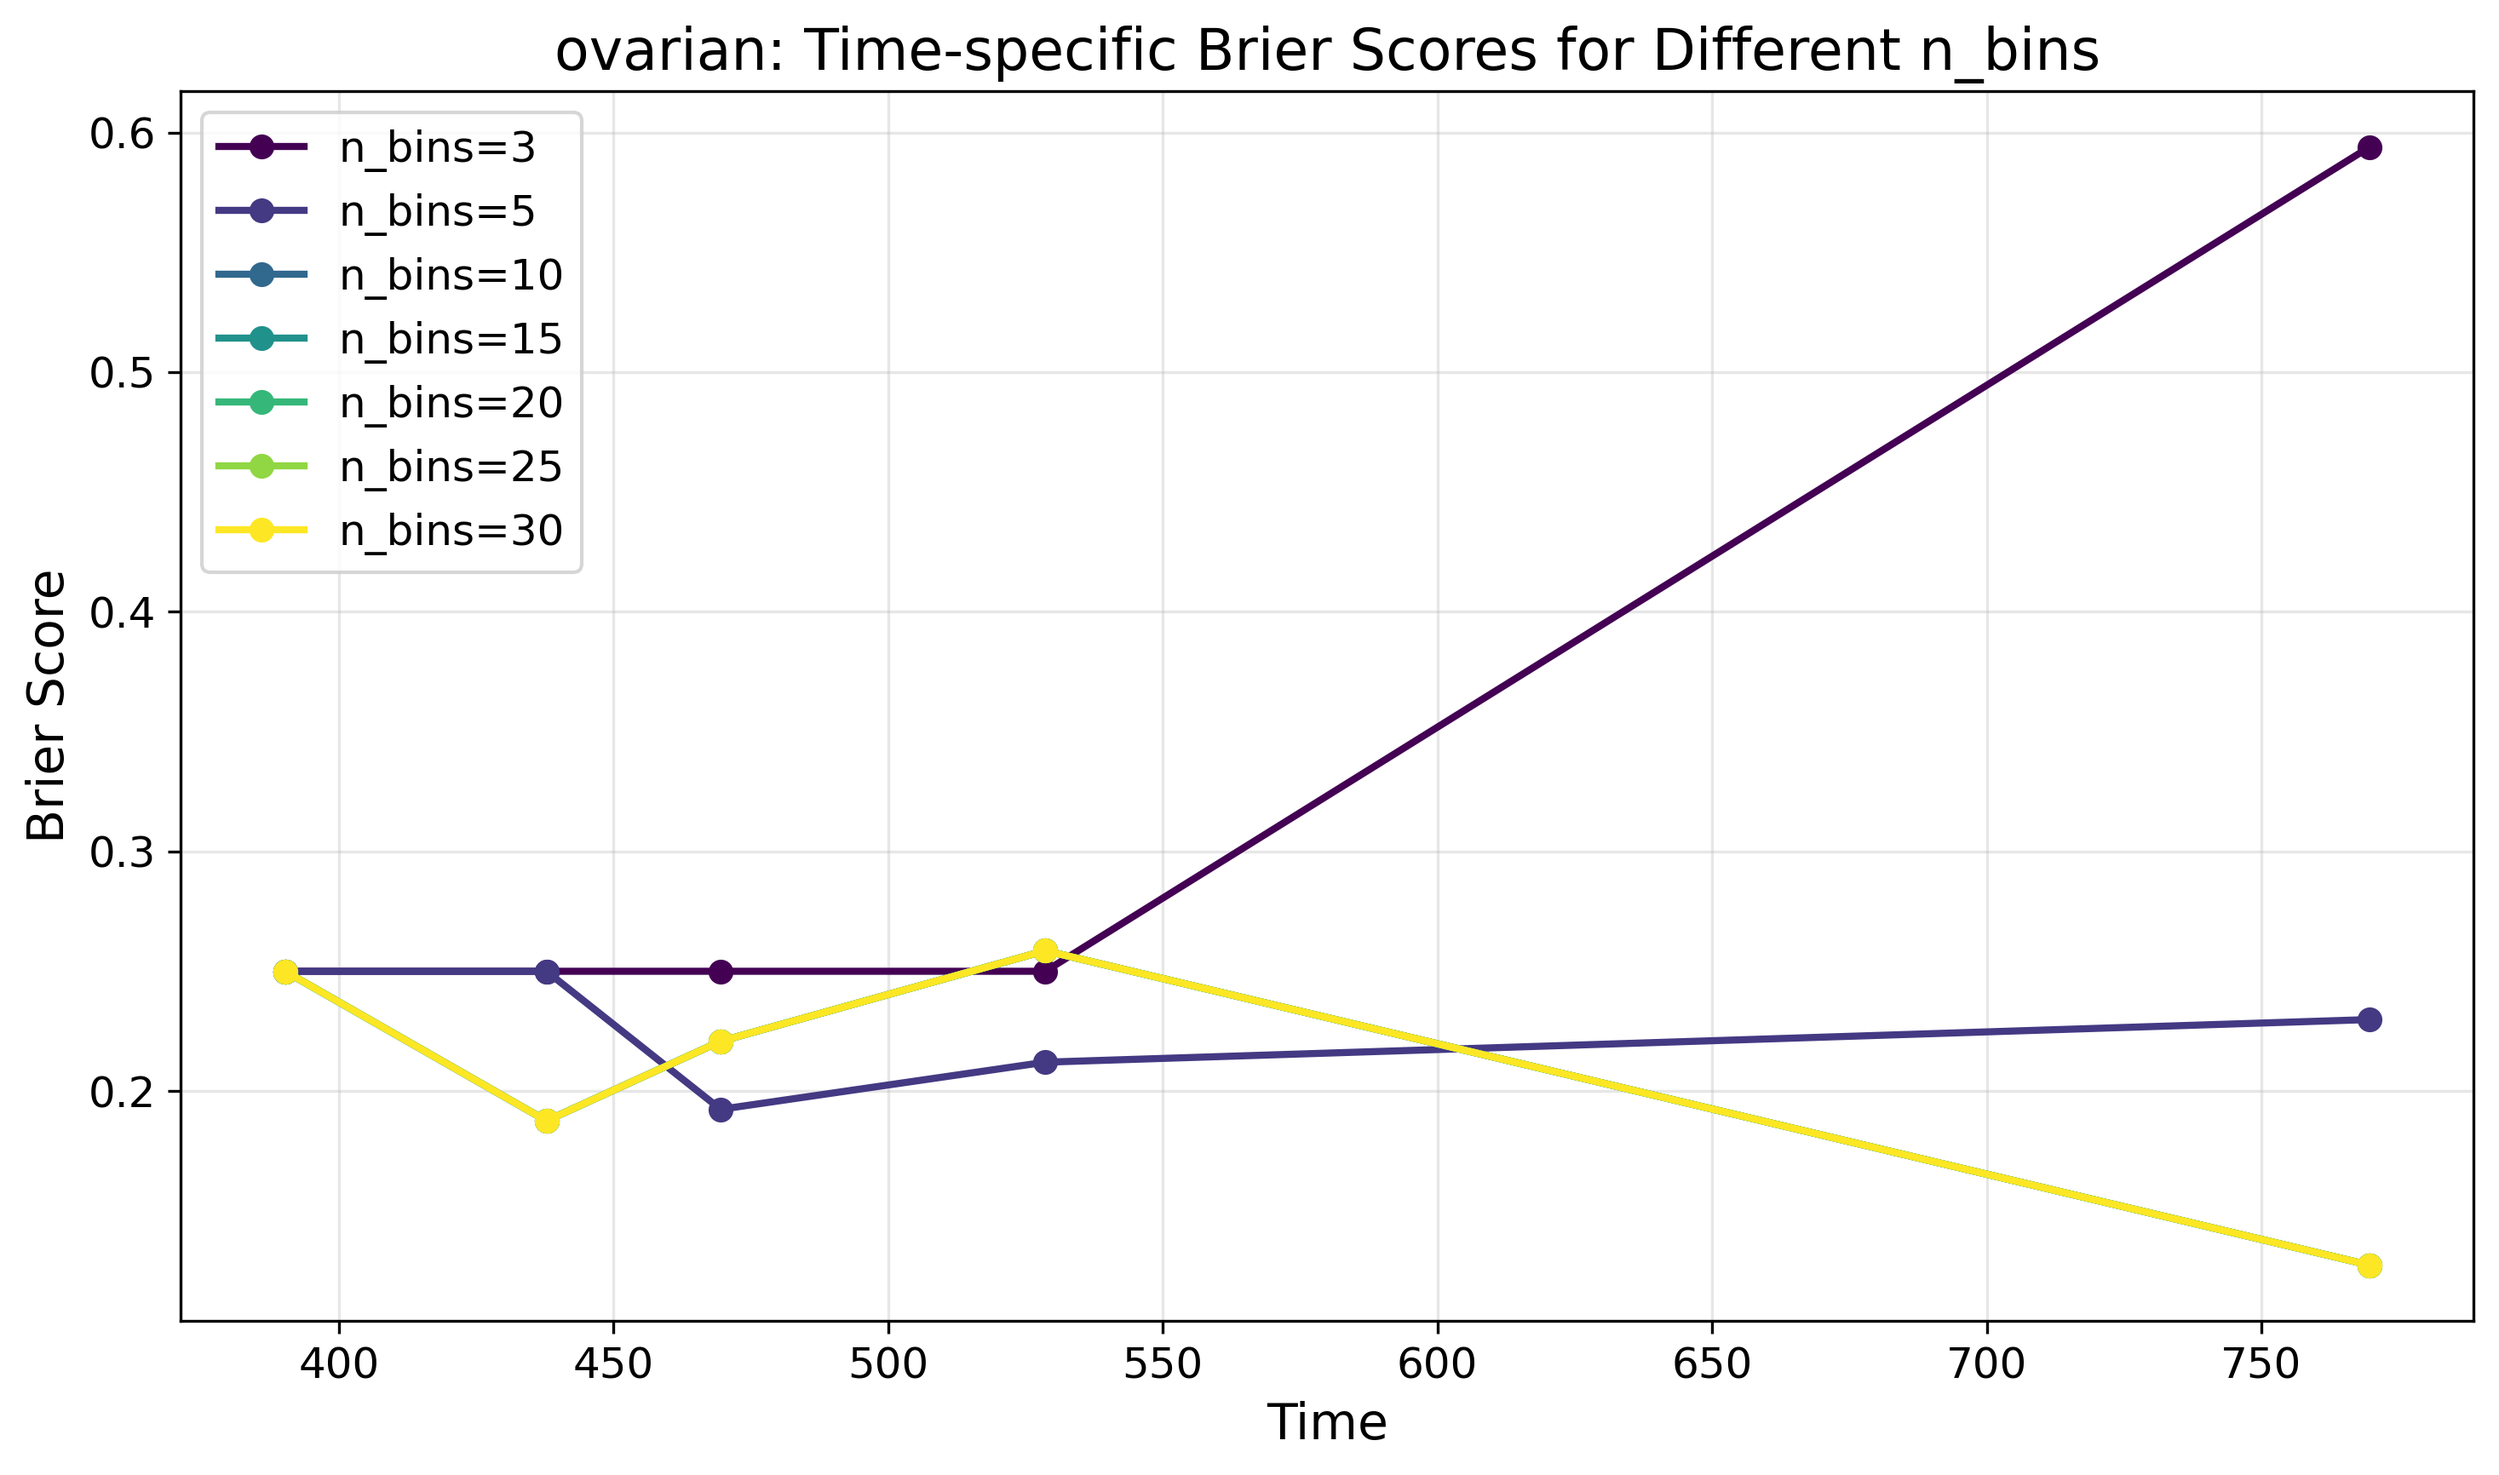
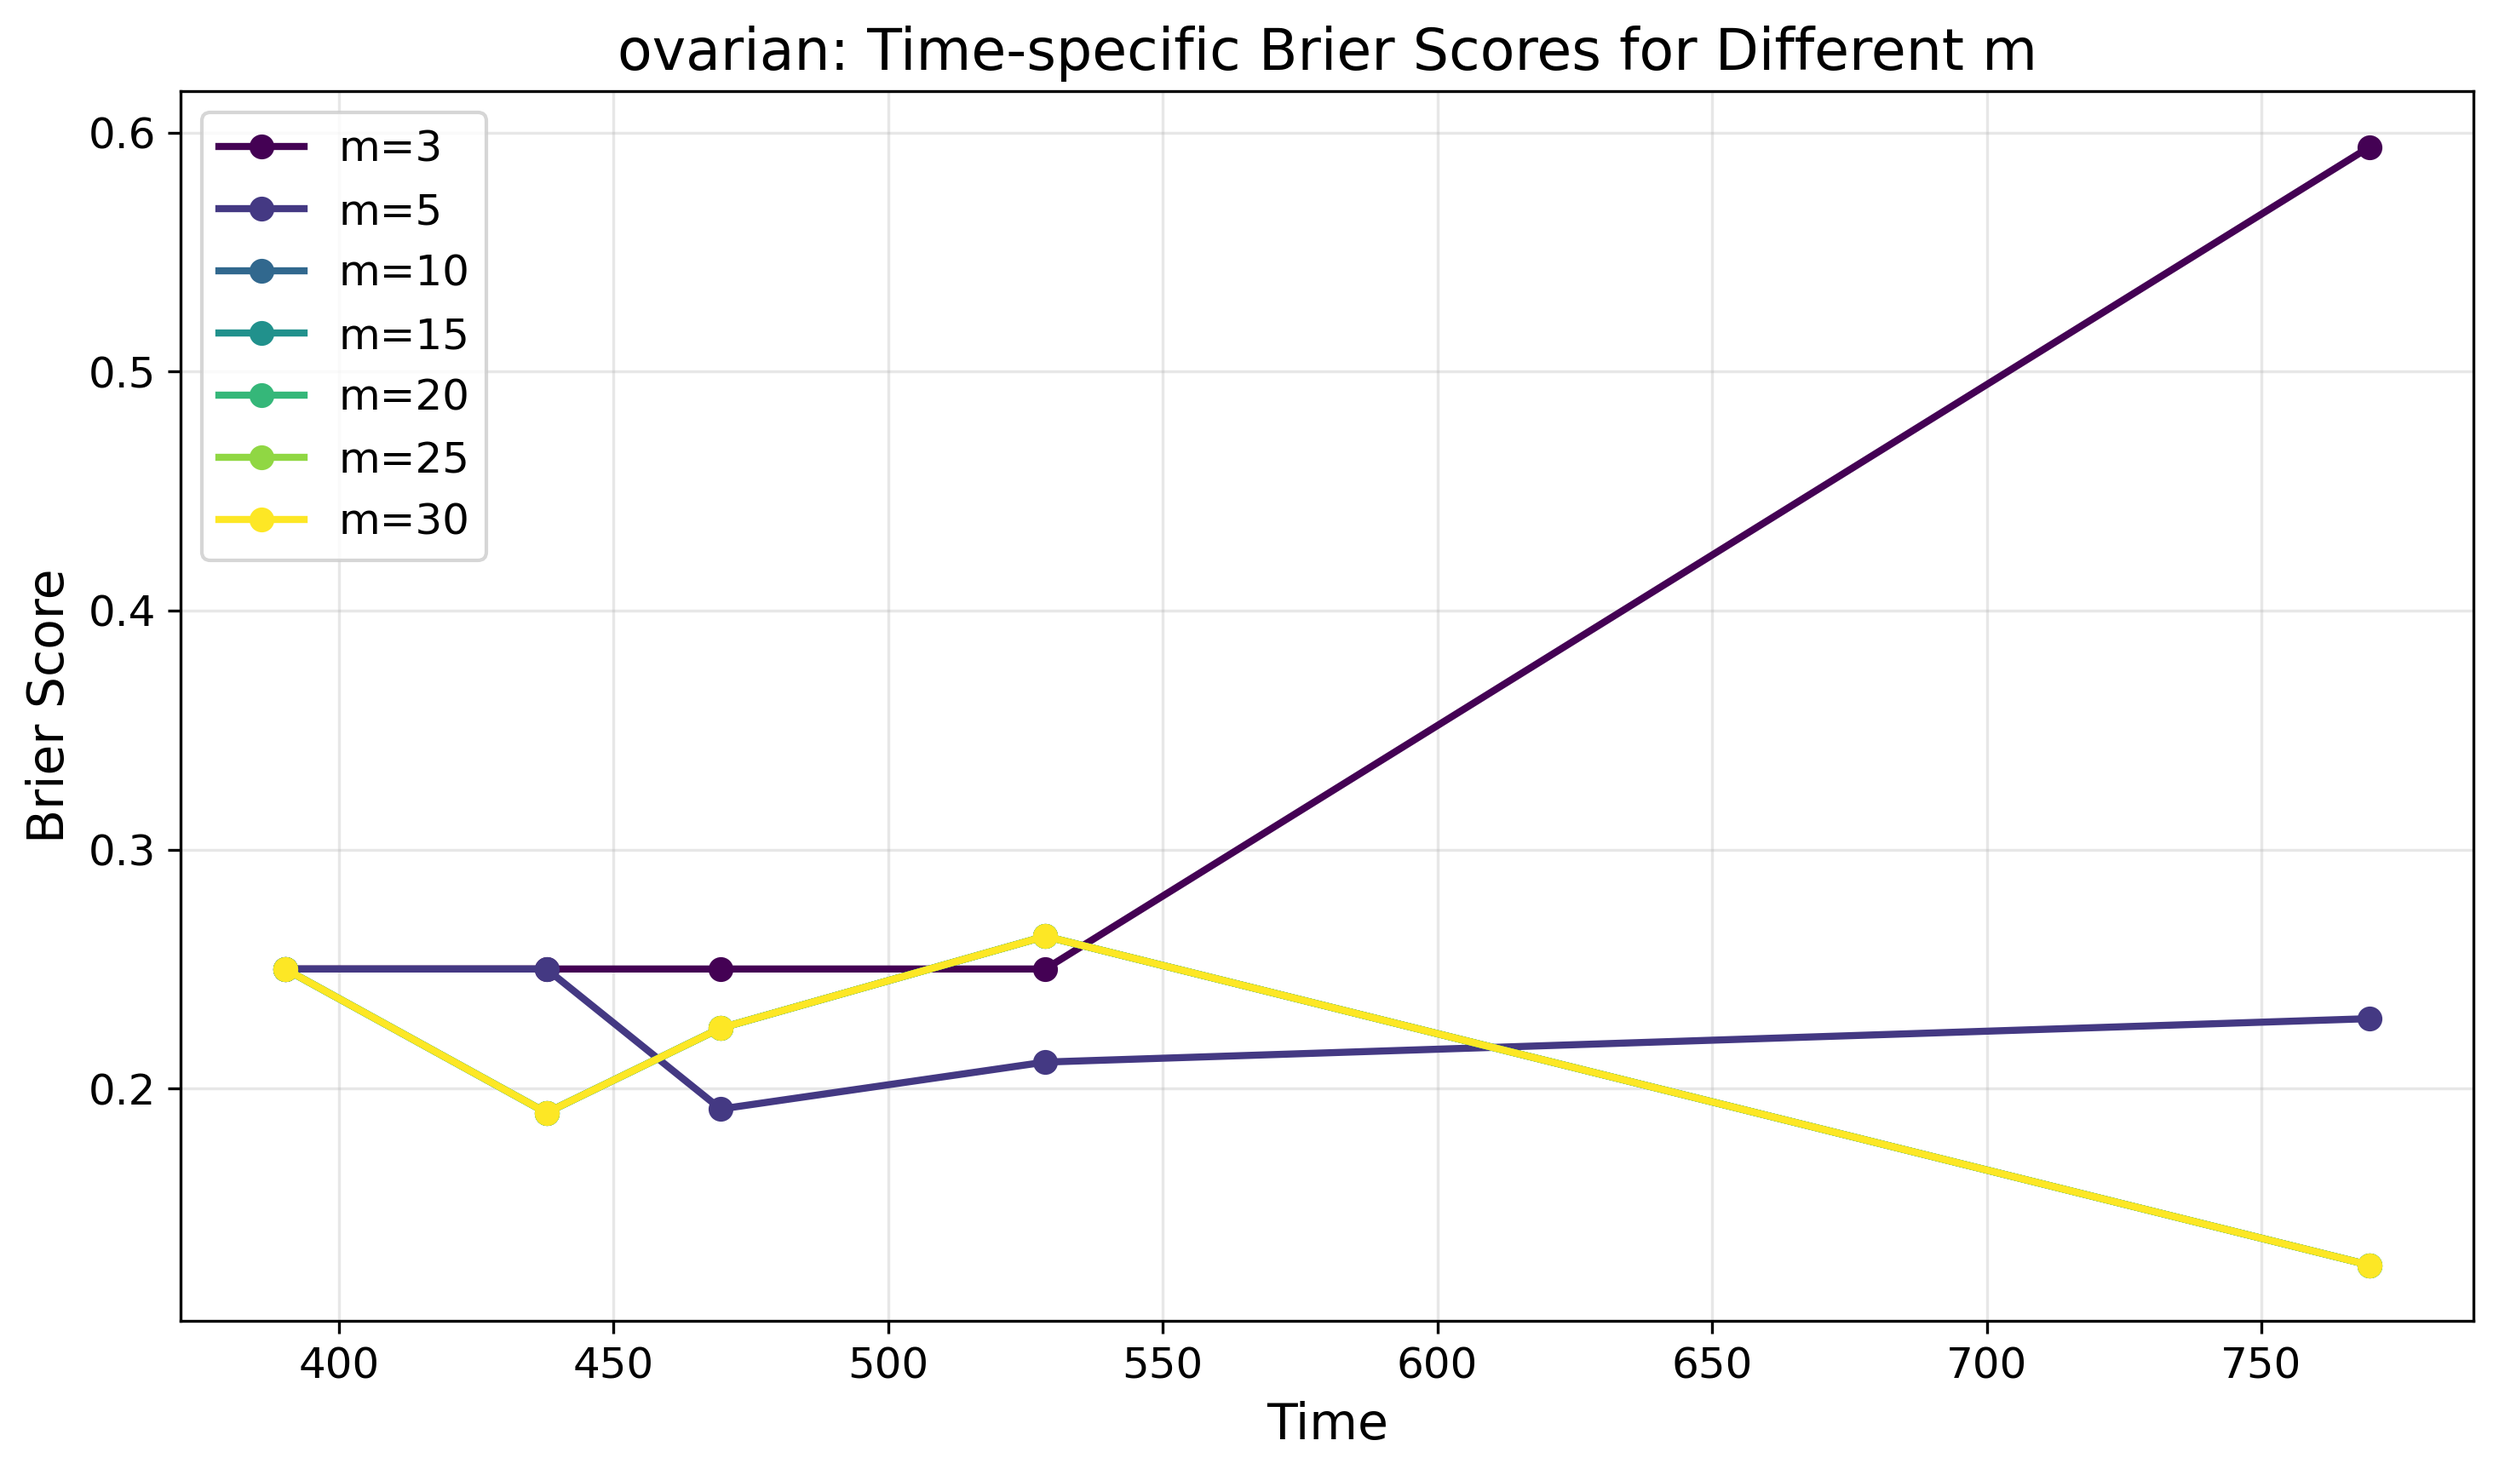
rename nbins

diff --git a/nbins_analysis.py b/nbins_analysis.py
@@ -310,7 +310,7 @@ def train_tabpfn_with_nbins(x_trainval_imputed, y_trainval, x_test_filtered, y_t
     X_tabpfn_train, y_tabpfn_train = construct_tabpfn_trainset(x_trainval_imputed, y_trainval_model, cuts)
     
     tabpfn_model = TabPFNClassifier(
-        device= 'cpu',
+        device= "cuda" if torch.cuda.is_available() else "cpu",
         ignore_pretraining_limits=True
     )
     tabpfn_model.fit(X_tabpfn_train, y_tabpfn_train)
@@ -478,23 +478,23 @@ def plot_nbins_analysis(dataset_name, results, times, n_bins_range):
     
     # IBS plot
     axes_metrics[0].plot(n_bins_values, ibs_values, 'o-', linewidth=2, markersize=8, color='red')
-    axes_metrics[0].set_xlabel('Number of Bins (n_bins)', fontsize=14)
+    axes_metrics[0].set_xlabel('Number of Bins (m)', fontsize=14)
     axes_metrics[0].set_ylabel('Integrated Brier Score (IBS)', fontsize=14)
-    axes_metrics[0].set_title('IBS vs n_bins', fontsize=16)
+    axes_metrics[0].set_title('IBS vs m', fontsize=16)
     axes_metrics[0].grid(True, alpha=0.3)
     
     # C-index plot
     axes_metrics[1].plot(n_bins_values, c_index_values, 'o-', linewidth=2, markersize=8, color='blue')
-    axes_metrics[1].set_xlabel('Number of Bins (n_bins)', fontsize=14)
+    axes_metrics[1].set_xlabel('Number of Bins (m)', fontsize=14)
     axes_metrics[1].set_ylabel('C-index', fontsize=14)
-    axes_metrics[1].set_title('C-index vs n_bins', fontsize=16)
+    axes_metrics[1].set_title('C-index vs m', fontsize=16)
     axes_metrics[1].grid(True, alpha=0.3)
     
     # Mean AUC plot
     axes_metrics[2].plot(n_bins_values, mean_auc_values, 'o-', linewidth=2, markersize=8, color='green')
-    axes_metrics[2].set_xlabel('Number of Bins (n_bins)', fontsize=14)
+    axes_metrics[2].set_xlabel('Number of Bins (m)', fontsize=14)
     axes_metrics[2].set_ylabel('Mean AUC', fontsize=14)
-    axes_metrics[2].set_title('Mean AUC vs n_bins', fontsize=16)
+    axes_metrics[2].set_title('Mean AUC vs m', fontsize=16)
     axes_metrics[2].grid(True, alpha=0.3)
     
     plt.tight_layout()
@@ -506,12 +506,12 @@ def plot_nbins_analysis(dataset_name, results, times, n_bins_range):
     colors = plt.cm.viridis(np.linspace(0, 1, len(n_bins_values)))
     for i, n_bins in enumerate(n_bins_values):
         brier_scores = results[n_bins]['brier_scores']
-        plt.plot(times, brier_scores, 'o-', label=f'n_bins={n_bins}', 
+        plt.plot(times, brier_scores, 'o-', label=f'm={n_bins}', 
                 color=colors[i], linewidth=2, markersize=6)
     
     plt.xlabel('Time', fontsize=14)
     plt.ylabel('Brier Score', fontsize=14)
-    plt.title(f'{dataset_name}: Time-specific Brier Scores for Different n_bins', fontsize=16)
+    plt.title(f'{dataset_name}: Time-specific Brier Scores for Different m', fontsize=16)
     plt.legend(fontsize=12)
     plt.grid(True, alpha=0.3)
     plt.tight_layout()
@@ -550,21 +550,21 @@ def create_summary_plots(all_results, dataset_names, n_bins_range):
         axes[2].plot(n_bins_values, mean_auc_values, 'o-', label=dataset_name, 
                     color=colors[i], linewidth=2, markersize=6)
     
-    axes[0].set_xlabel('Number of Bins (n_bins)', fontsize=14)
+    axes[0].set_xlabel('Number of Bins (m)', fontsize=14)
     axes[0].set_ylabel('Integrated Brier Score (IBS)', fontsize=14)
-    axes[0].set_title('IBS vs n_bins (All Datasets)', fontsize=16)
+    axes[0].set_title('IBS vs m (All Datasets)', fontsize=16)
     axes[0].legend(fontsize=12)
     axes[0].grid(True, alpha=0.3)
     
-    axes[1].set_xlabel('Number of Bins (n_bins)', fontsize=14)
+    axes[1].set_xlabel('Number of Bins (m)', fontsize=14)
     axes[1].set_ylabel('C-index', fontsize=14)
-    axes[1].set_title('C-index vs n_bins (All Datasets)', fontsize=16)
+    axes[1].set_title('C-index vs m (All Datasets)', fontsize=16)
     axes[1].legend(fontsize=12)
     axes[1].grid(True, alpha=0.3)
     
-    axes[2].set_xlabel('Number of Bins (n_bins)', fontsize=14)
+    axes[2].set_xlabel('Number of Bins (m)', fontsize=14)
     axes[2].set_ylabel('Mean AUC', fontsize=14)
-    axes[2].set_title('Mean AUC vs n_bins (All Datasets)', fontsize=16)
+    axes[2].set_title('Mean AUC vs m (All Datasets)', fontsize=16)
     axes[2].legend(fontsize=12)
     axes[2].grid(True, alpha=0.3)
     
